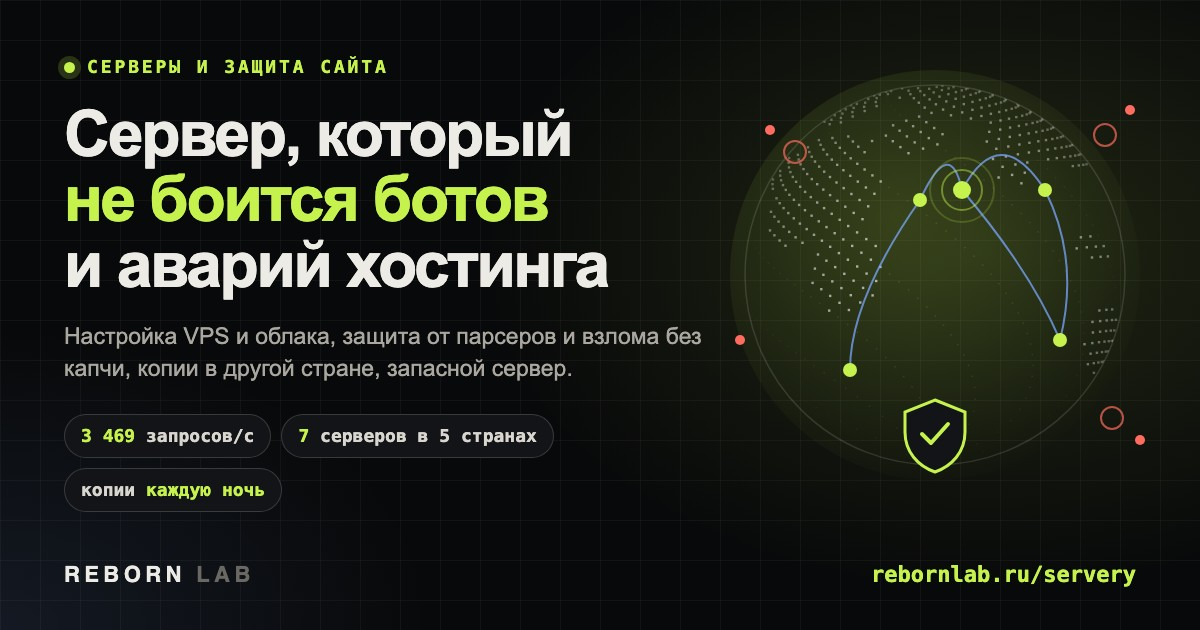
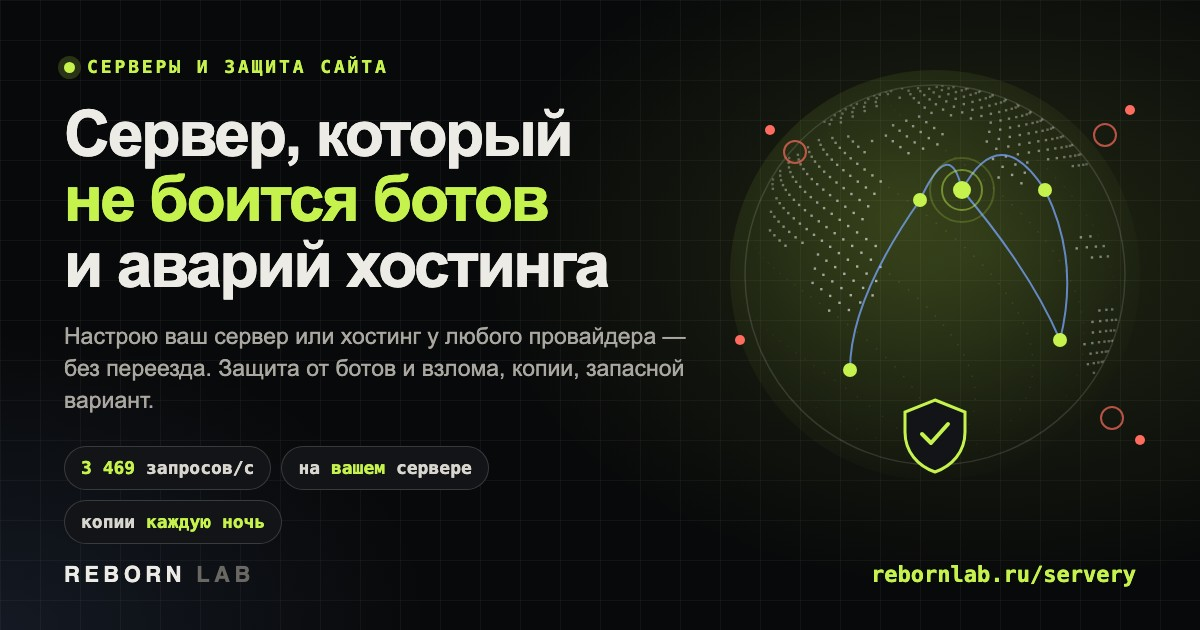
/servery/ и главная: настраиваю сервер клиента у его провайдера, без переезда ко мне; «спокойно спите»

Changed region(s): [[0.0308, 0.5127, 0.5858, 0.8444], [0.2467, 0.6635, 0.4625, 0.754]]

diff --git a/servery/index.html b/servery/index.html
@@ -21,7 +21,7 @@
 <link rel="stylesheet" href="/assets/styles.css?v=9996d339">
 <script type="application/ld+json">{"@context": "https://schema.org", "@type": "BreadcrumbList", "itemListElement": [{"@type": "ListItem", "position": 1, "name": "Главная", "item": "https://rebornlab.ru/"}, {"@type": "ListItem", "position": 2, "name": "Услуги", "item": "https://rebornlab.ru/#uslugi"}, {"@type": "ListItem", "position": 3, "name": "Серверы и защита", "item": "https://rebornlab.ru/servery/"}]}</script>
 <script type="application/ld+json">{"@context": "https://schema.org", "@type": "Service", "name": "Настройка серверов, защита сайта от ботов и взлома, сопровождение", "description": "Настрою VPS или облачный сервер под сайт, закрою от парсеров, сканеров и взлома без капчи, сделаю копии в другой стране и запасной сервер. Мониторинг и сопровождение, сигнал в Telegram. Разбор бесплатно.", "provider": {"@type": "Organization", "name": "REBORN LAB", "url": "https://rebornlab.ru"}, "areaServed": "RU", "serviceType": "Настройка и сопровождение серверов", "url": "https://rebornlab.ru/servery/"}</script>
-<script type="application/ld+json">{"@context": "https://schema.org", "@type": "FAQPage", "mainEntity": [{"@type": "Question", "name": "Вы работаете на моём сервере или переносите сайт к себе?", "acceptedAnswer": {"@type": "Answer", "text": "Как вам удобнее. Могу настроить ваш VPS у любого провайдера: нужен доступ root, лучше по ключу. Могу разместить сайт на своём сервере в России: тогда копии, фильтр ботов и мониторинг уже включены."}}, {"@type": "Question", "name": "Посетителям придётся вводить капчу?", "acceptedAnswer": {"@type": "Answer", "text": "Нет. Фильтр смотрит, кто пришёл: браузер человека, поисковый робот или программа-сборщик. Людям ничего не показываем. Отказ получают сканеры, парсеры, запросы с пустой подписью и те, кто перебирает служебные адреса вроде .env и wp-login."}}, {"@type": "Question", "name": "Не пострадает ли сайт в Яндексе и Google?", "acceptedAnswer": {"@type": "Answer", "text": "Нет. Поисковые роботы, Яндекс Метрика, веб-архив и превью ссылок в Telegram и ВКонтакте проходят. Отсекаются только боты, от которых сайту нет пользы."}}, {"@type": "Question", "name": "Что будет, если сервер упадёт ночью?", "acceptedAnswer": {"@type": "Answer", "text": "Мониторинг заметит это за несколько минут и пришлёт сигнал. Если сервер не поднимается, сайт можно включить на запасном сервере в другой стране из ночной копии и перевести на него домен."}}, {"@type": "Question", "name": "У меня копии делает хостинг. Этого мало?", "acceptedAnswer": {"@type": "Answer", "text": "Если хостинг ляжет целиком, его копии будут недоступны вместе с сайтом. В ноябре так и вышло у тысяч сайтов. Копия должна лежать у другого провайдера, а лучше в двух местах, и её нужно иногда пробовать восстановить."}}, {"@type": "Question", "name": "Сайт уже взломали. Поможете?", "acceptedAnswer": {"@type": "Answer", "text": "Да. Сначала снимаю копию как есть, потом ищу, как зашли и что оставили, вычищаю и закрываю вход. Удалить заражённые файлы мало: если чёрный ход остался, всё повторится."}}, {"@type": "Question", "name": "Сколько стоит?", "acceptedAnswer": {"@type": "Answer", "text": "Разбор бесплатный. Цену называю письменно после него: она зависит от числа сайтов, CMS и того, нужно ли сопровождение. Без сюрпризов в процессе."}}]}</script>
+<script type="application/ld+json">{"@context": "https://schema.org", "@type": "FAQPage", "mainEntity": [{"@type": "Question", "name": "Сайт нужно куда-то переносить?", "acceptedAnswer": {"@type": "Answer", "text": "Нет. Я настраиваю сервер или хостинг, который у вас уже есть, у любого провайдера: VPS, облако или обычный хостинг с панелью. Нужен доступ к серверу (лучше по ключу) или к панели хостинга. Сайт остаётся вашим и там же, где был."}}, {"@type": "Question", "name": "Посетителям придётся вводить капчу?", "acceptedAnswer": {"@type": "Answer", "text": "Нет. Фильтр смотрит, кто пришёл: браузер человека, поисковый робот или программа-сборщик. Людям ничего не показываем. Отказ получают сканеры, парсеры, запросы с пустой подписью и те, кто перебирает служебные адреса вроде .env и wp-login."}}, {"@type": "Question", "name": "Не пострадает ли сайт в Яндексе и Google?", "acceptedAnswer": {"@type": "Answer", "text": "Нет. Поисковые роботы, Яндекс Метрика, веб-архив и превью ссылок в Telegram и ВКонтакте проходят. Отсекаются только боты, от которых сайту нет пользы."}}, {"@type": "Question", "name": "Что будет, если сервер упадёт ночью?", "acceptedAnswer": {"@type": "Answer", "text": "Мониторинг заметит это за несколько минут и пришлёт сигнал. Если сервер не поднимается, сайт можно включить на запасном сервере у другого провайдера (он тоже ваш) из ночной копии и перевести на него домен."}}, {"@type": "Question", "name": "У меня копии делает хостинг. Этого мало?", "acceptedAnswer": {"@type": "Answer", "text": "Если хостинг ляжет целиком, его копии будут недоступны вместе с сайтом. В ноябре так и вышло у тысяч сайтов. Копия должна лежать у другого провайдера, а лучше в двух местах, и её нужно иногда пробовать восстановить."}}, {"@type": "Question", "name": "Сайт уже взломали. Поможете?", "acceptedAnswer": {"@type": "Answer", "text": "Да. Сначала снимаю копию как есть, потом ищу, как зашли и что оставили, вычищаю и закрываю вход. Удалить заражённые файлы мало: если чёрный ход остался, всё повторится."}}, {"@type": "Question", "name": "Сколько стоит?", "acceptedAnswer": {"@type": "Answer", "text": "Разбор бесплатный. Цену называю письменно после него: она зависит от числа сайтов, CMS и того, нужно ли сопровождение. Без сюрпризов в процессе."}}]}</script>
 <script>window.RL_METRIKA=113418511;window.RL_LOAD_METRIKA=function(){if(window.RL_YM_ON)return;window.RL_YM_ON=1;(function(m,e,t,r,i,k,a){m[i]=m[i]||function(){(m[i].a=m[i].a||[]).push(arguments)};m[i].l=1*new Date();k=e.createElement(t),a=e.getElementsByTagName(t)[0],k.async=1,k.src=r,a.parentNode.insertBefore(k,a)})(window,document,'script','https://mc.yandex.ru/metrika/tag.js?id=113418511','ym');ym(113418511,'init',{ssr:true,webvisor:true,clickmap:true,ecommerce:'dataLayer',referrer:document.referrer,url:location.href,accurateTrackBounce:true,trackLinks:true})};</script>
 </head>
 <body>
@@ -153,14 +153,14 @@ html[data-theme="light"] .srv-card,html[data-theme="light"] .srv-case,html[data-
   <div class="crumbs"><a href="/">Главная</a> / <a href="/#uslugi">Услуги</a> / Серверы и защита</div>
   <div class="kicker" style="margin-top:18px">Серверы · безопасность · сопровождение</div>
   <h1>Настройка серверов и <em>защита сайта</em> от ботов и взлома</h1>
-  <p class="sub">Поднимаю VPS и облачные серверы под ваш сайт, закрываю его от парсеров, сканеров и подбора паролей, настраиваю копии и запасной сервер. Потом слежу, чтобы всё работало: если что-то упадёт ночью, я узнаю об этом раньше вас.</p>
-  <div class="srv-badges"><span><i></i>7 серверов в 5 странах</span><span><i></i>проверка каждые 5 минут</span><span><i></i>копии каждую ночь</span></div>
+  <p class="sub">Настраиваю ваш VPS, облачный сервер или хостинг там, где он уже стоит, у любого провайдера. Закрываю сайт от парсеров, сканеров и подбора паролей, настраиваю копии и запасной вариант на случай аварии. Потом слежу за всем сам, а вы спокойно спите: если что-то упадёт ночью, я узнаю об этом раньше вас.</p>
+  <div class="srv-badges"><span><i></i>на вашем сервере, без переезда</span><span><i></i>проверка каждые 5 минут</span><span><i></i>копии каждую ночь</span></div>
   <p style="display:flex;gap:12px;flex-wrap:wrap;margin:0"><a class="btn btn-acc" href="#task" data-goal="cta_service">Разобрать мой сервер <span class="arrow">→</span></a><a class="btn btn-ghost" href="#shield">Как работает защита</a></p>
  </div>
  <div class="srv-globe" aria-hidden="true">
   <canvas id="srvGlobe"></canvas>
   <div class="srv-feed" id="srvFeed"><b>Что прямо сейчас приходит на сайт</b></div>
-  <div class="gl-cap">наглядная схема: серверы, которые мы держим, и запросы к сайтам</div>
+  <div class="gl-cap">наглядная схема: серверы и запросы к сайтам</div>
  </div>
 </div>
 <div class="wrap"><div class="srv-stats rv">
@@ -203,13 +203,13 @@ html[data-theme="light"] .srv-card,html[data-theme="light"] .srv-case,html[data-
 </div></section>
 
 <section class="sec" style="padding-top:0"><div class="wrap">
- <div class="sec-hd rv"><div><div class="kicker">Что делаю</div><h2>Сервер от настройки <em>до сопровождения</em></h2></div><p>Можно заказать один пункт, можно всё сразу. Работаю на вашем сервере у любого провайдера или размещаю сайт у себя на сервере в России.</p></div>
+ <div class="sec-hd rv"><div><div class="kicker">Что делаю</div><h2>Сервер от настройки <em>до сопровождения</em></h2></div><p>Можно заказать один пункт, можно всё сразу. Работаю там, где уже стоит ваш сайт: VPS, облако или обычный хостинг у любого провайдера. Переносить никуда не нужно.</p></div>
  <div class="srv-grid">
   <div class="srv-card rv"><div class="n">01</div><h3>Настройка VPS и облачного сервера</h3><p>Сервер с нуля под ваш сайт: WordPress, Битрикс, MODX, OpenCart, статика или своё приложение.</p><ul><li>nginx, PHP нужной версии, база данных</li><li>сертификаты https с автопродлением</li><li>старый сайт на старом PHP — тоже запустим</li></ul></div>
   <div class="srv-card rv"><div class="n">02</div><h3>Защита от парсеров и ненужных ботов</h3><p>Отсекаю сканеры, сборщики цен и контента, SEO-пауков, которые только грузят сервер.</p><ul><li>Яндекс, Google, Метрика, превью в мессенджерах проходят</li><li>капчи для людей нет</li><li>автобан за перебор адресов и флуд</li></ul></div>
   <div class="srv-card rv"><div class="n">03</div><h3>Защита от взлома</h3><p>Закрываю то, через что обычно заходят: пароли, старые плагины, открытые служебные файлы.</p><ul><li>вход на сервер только по ключу</li><li>.env, .git, бэкапы и phpinfo снаружи не видны</li><li>в WordPress нельзя поставить «файловый менеджер»</li></ul></div>
   <div class="srv-card rv"><div class="n">04</div><h3>Изоляция сайтов друг от друга</h3><p>Если на сервере несколько сайтов, взлом одного не должен открыть остальные.</p><ul><li>у каждого сайта свой пользователь и PHP</li><li>сайт не видит чужие папки и настройки</li><li>службы заявок пишут только в свою папку</li></ul></div>
-  <div class="srv-card rv"><div class="n">05</div><h3>Копии и запасной сервер</h3><p>Копия, которая лежит у того же хостинга, в аварию не поможет. Поэтому храню её в другом месте.</p><ul><li>каждую ночь, в зашифрованном виде</li><li>грузится, только если сайт изменился</li><li>запасной сервер в другой стране, переключение за минуты</li></ul></div>
+  <div class="srv-card rv"><div class="n">05</div><h3>Копии и запасной сервер</h3><p>Копия, которая лежит у того же хостинга, в аварию не поможет. Поэтому храню её в другом месте.</p><ul><li>каждую ночь, в зашифрованном виде</li><li>грузится, только если сайт изменился</li><li>запасной сервер у другого провайдера (тоже ваш), переключение за минуты</li></ul></div>
   <div class="srv-card rv"><div class="n">06</div><h3>Мониторинг и уведомления</h3><p>Сайт, сервер, место на диске, сертификат — всё под присмотром, сигнал приходит в Telegram.</p><ul><li>сайт не ответил — проверка каждые 10 минут</li><li>диск заполнен на 80% — предупреждение</li><li>бесплатно для любого сайта — <a href="https://t.me/rebornlab_bot" target="_blank" rel="noopener">бот</a></li></ul></div>
   <div class="srv-card rv"><div class="n">07</div><h3>Почта сайта не в спаме</h3><p>Письма с форм уходят от вашего домена и доходят до ящика, а не в папку «Спам».</p><ul><li>DKIM, SPF и PTR для вашего домена</li><li>отправитель — site@ваш-домен</li><li>проверка по журналу почтового сервера</li></ul></div>
   <div class="srv-card rv"><div class="n">08</div><h3>Доступность из России</h3><p>Сайт должен открываться на любом провайдере и на мобильном интернете, без обходных приложений.</p><ul><li>DNS без «оранжевого облака» Cloudflare</li><li>шрифты и скрипты — со своего сервера</li><li>проверка с разных точек</li></ul></div>
@@ -240,16 +240,16 @@ html[data-theme="light"] .srv-card,html[data-theme="light"] .srv-case,html[data-
  <div class="srv-cases">
   <div class="srv-case rv"><div class="big">1 г. 9 мес.</div><h3>Троян жил внутри Битрикса</h3><p>Антивирус хостинга трижды удалял файлы, а чёрный ход оставался. Нашли его, закрыли дыры в шаблоне, поставили фильтр ботов и журнал. Разбор по шагам и 10 проверок, которые можно сделать самому, — в статье.</p><a href="/journal/kejs-troyan-v-bitrikse-zashchita-sajta/">Читать кейс →</a></div>
   <div class="srv-case rv"><div class="big">3 469 / с</div><h3>Нагрузочный тест после настройки</h3><p>5 000 запросов к главной по 200 одновременно на сервере 2 ядра и 2 ГБ: ни одной ошибки, 95% ответов быстрее 0,22 с. До настройки сервер упирался в лимит соединений.</p></div>
-  <div class="srv-case rv"><div class="big">10 сайтов</div><h3>Хостинг упал — сайты вернулись</h3><p>В ноябре крупный хостинг лёг на несколько дней. Сайты клиентов подняли на своих серверах из копий и веб-архива: каталоги, научный журнал, Битрикс и MODX. Теперь у каждого есть копия в другой стране.</p><a href="/vosstanovlenie-sajta/">Восстановление сайтов →</a></div>
+  <div class="srv-case rv"><div class="big">10 сайтов</div><h3>Хостинг упал — сайты вернулись</h3><p>В ноябре крупный хостинг лёг на несколько дней. Сайты клиентов подняли из копий и веб-архива: каталоги, научный журнал, Битрикс и MODX. Теперь у каждого есть копия у другого провайдера.</p><a href="/vosstanovlenie-sajta/">Восстановление сайтов →</a></div>
   <div class="srv-case rv"><div class="big">27</div><h3>Хостингов под наблюдением</h3><p>Каждые 30 минут проверяем панели, DNS и сайты клиентов крупных хостингов. Видно, кто лежит прямо сейчас и кто чаще падал за неделю.</p><a href="/hosting/">Мониторинг хостингов →</a></div>
  </div>
 </div></section>
 
 <section class="sec" style="padding-top:0"><div class="wrap">
- <div class="sec-hd rv"><div><div class="kicker">Сопровождение</div><h2>Сервер <em>под присмотром</em> каждый день</h2></div><p>Для тех, кто не хочет думать о сервере. Вы занимаетесь бизнесом, я — тем, чтобы сайт был доступен, обновлён и цел.</p></div>
+ <div class="sec-hd rv"><div><div class="kicker">Сопровождение</div><h2>Сервер под присмотром, <em>вы спокойно спите</em></h2></div><p>Для тех, кто не хочет думать о сервере. Вы занимаетесь бизнесом, я — тем, чтобы сайт был доступен, обновлён и цел.</p></div>
  <div class="srv-care">
   <div class="rv"><h3><i>всегда</i>Каждые 5–10 минут</h3><ul><li>сайт и сервер отвечают</li><li>сертификат не истёк</li><li>места на диске хватает</li><li>сигнал в Telegram, если нет</li></ul></div>
-  <div class="rv"><h3><i>ночью</i>Каждый день</h3><ul><li>зашифрованная копия файлов и базы</li><li>копия в другой стране и в облаке</li><li>обновления безопасности системы</li><li>журнал: кто пытался зайти</li></ul></div>
+  <div class="rv"><h3><i>ночью</i>Каждый день</h3><ul><li>зашифрованная копия файлов и базы</li><li>копия у другого провайдера и в вашем облаке</li><li>обновления безопасности системы</li><li>журнал: кто пытался зайти</li></ul></div>
   <div class="rv"><h3><i>раз в месяц</i>Проверка по-настоящему</h3><ul><li>пробное восстановление из копии</li><li>обновление CMS и плагинов</li><li>чистка от лишних ботов в фильтре</li><li>короткий отчёт: что было и что сделано</li></ul></div>
  </div>
 </div></section>
@@ -262,10 +262,10 @@ html[data-theme="light"] .srv-card,html[data-theme="light"] .srv-case,html[data-
  <div class="kicker rv">Вопросы</div>
  <h2 class="rv" style="font-size:clamp(28px,3.4vw,44px);margin-bottom:20px">Частые <em>вопросы</em></h2>
  <div class="srv-faq">
-  <details class="rv"><summary>Вы работаете на моём сервере или переносите сайт к себе?</summary><p>Как вам удобнее. Могу настроить ваш VPS у любого провайдера: нужен доступ root, лучше по ключу. Могу разместить сайт на своём сервере в России: тогда копии, фильтр ботов и мониторинг уже включены.</p></details>
+  <details class="rv"><summary>Сайт нужно куда-то переносить?</summary><p>Нет. Я настраиваю сервер или хостинг, который у вас уже есть, у любого провайдера: VPS, облако или обычный хостинг с панелью. Нужен доступ к серверу (лучше по ключу) или к панели хостинга. Сайт остаётся вашим и там же, где был.</p></details>
   <details class="rv"><summary>Посетителям придётся вводить капчу?</summary><p>Нет. Фильтр смотрит, кто пришёл: браузер человека, поисковый робот или программа-сборщик. Людям ничего не показываем. Отказ получают сканеры, парсеры, запросы с пустой подписью и те, кто перебирает служебные адреса вроде .env и wp-login.</p></details>
   <details class="rv"><summary>Не пострадает ли сайт в Яндексе и Google?</summary><p>Нет. Поисковые роботы, Яндекс Метрика, веб-архив и превью ссылок в Telegram и ВКонтакте проходят. Отсекаются только боты, от которых сайту нет пользы.</p></details>
-  <details class="rv"><summary>Что будет, если сервер упадёт ночью?</summary><p>Мониторинг заметит это за несколько минут и пришлёт сигнал. Если сервер не поднимается, сайт можно включить на запасном сервере в другой стране из ночной копии и перевести на него домен.</p></details>
+  <details class="rv"><summary>Что будет, если сервер упадёт ночью?</summary><p>Мониторинг заметит это за несколько минут и пришлёт сигнал. Если сервер не поднимается, сайт можно включить на запасном сервере у другого провайдера (он тоже ваш) из ночной копии и перевести на него домен.</p></details>
   <details class="rv"><summary>У меня копии делает хостинг. Этого мало?</summary><p>Если хостинг ляжет целиком, его копии будут недоступны вместе с сайтом. В ноябре так и вышло у тысяч сайтов. Копия должна лежать у другого провайдера, а лучше в двух местах, и её нужно иногда пробовать восстановить.</p></details>
   <details class="rv"><summary>Сайт уже взломали. Поможете?</summary><p>Да. Сначала снимаю копию как есть, потом ищу, как зашли и что оставили, вычищаю и закрываю вход. Удалить заражённые файлы мало: если чёрный ход остался, всё повторится.</p></details>
   <details class="rv"><summary>Сколько стоит?</summary><p>Разбор бесплатный. Цену называю письменно после него: она зависит от числа сайтов, CMS и того, нужно ли сопровождение. Без сюрпризов в процессе.</p></details>
@@ -273,7 +273,7 @@ html[data-theme="light"] .srv-card,html[data-theme="light"] .srv-case,html[data-
 </div></section>
 
 <section class="sec" id="task" style="padding-top:0"><div class="wrap"><div class="final-box rv"><h2 style="font-size:clamp(30px,4vw,52px)">Пришлите адрес — <em>посмотрю сервер</em></h2><form data-lead id="f-servery" novalidate>
- <p class="lf-proof"><b>Что я делаю каждый день:</b> держу сайты клиентов на своих серверах в России и в других странах, закрываю их от ботов и взлома, делаю копии и слежу, чтобы всё открывалось.</p>
+ <p class="lf-proof"><b>Что я делаю каждый день:</b> настраиваю серверы и хостинги клиентов там, где они уже стоят, закрываю сайты от ботов и взлома, настраиваю копии и слежу, чтобы всё открывалось. Чтобы вы могли спокойно спать.</p>
  <div class="chips" data-chips><button type="button" class="chip hot">🛡 Защита от ботов и парсеров</button><button type="button" class="chip hot">⚙ Настроить сервер / VPS</button><button type="button" class="chip">Полная защита сайта</button><button type="button" class="chip">Сопровождение сервера</button><button type="button" class="chip">Копии и запасной сервер</button><button type="button" class="chip">Сайт взломали</button><button type="button" class="chip">Другая задача</button></div>
  <label class="sr" for="f-servery-t">Опишите задачу</label>
  <textarea class="ym-disable-keys" id="f-servery-t" name="text" placeholder="Адрес сайта и что беспокоит. Например: «мой-сайт.ru тормозит, на хостинге пишут про нагрузку» или «купил VPS, нужно перенести WordPress и защитить»"></textarea>

diff --git a/drafts/servery-main.part.html b/drafts/servery-main.part.html
@@ -117,14 +117,14 @@ html[data-theme="light"] .srv-card,html[data-theme="light"] .srv-case,html[data-
   <div class="crumbs"><a href="/">Главная</a> / <a href="/#uslugi">Услуги</a> / Серверы и защита</div>
   <div class="kicker" style="margin-top:18px">Серверы · безопасность · сопровождение</div>
   <h1>Настройка серверов и <em>защита сайта</em> от ботов и взлома</h1>
-  <p class="sub">Поднимаю VPS и облачные серверы под ваш сайт, закрываю его от парсеров, сканеров и подбора паролей, настраиваю копии и запасной сервер. Потом слежу, чтобы всё работало: если что-то упадёт ночью, я узнаю об этом раньше вас.</p>
-  <div class="srv-badges"><span><i></i>7 серверов в 5 странах</span><span><i></i>проверка каждые 5 минут</span><span><i></i>копии каждую ночь</span></div>
+  <p class="sub">Настраиваю ваш VPS, облачный сервер или хостинг там, где он уже стоит, у любого провайдера. Закрываю сайт от парсеров, сканеров и подбора паролей, настраиваю копии и запасной вариант на случай аварии. Потом слежу за всем сам, а вы спокойно спите: если что-то упадёт ночью, я узнаю об этом раньше вас.</p>
+  <div class="srv-badges"><span><i></i>на вашем сервере, без переезда</span><span><i></i>проверка каждые 5 минут</span><span><i></i>копии каждую ночь</span></div>
   <p style="display:flex;gap:12px;flex-wrap:wrap;margin:0"><a class="btn btn-acc" href="#task" data-goal="cta_service">Разобрать мой сервер <span class="arrow">→</span></a><a class="btn btn-ghost" href="#shield">Как работает защита</a></p>
  </div>
  <div class="srv-globe" aria-hidden="true">
   <canvas id="srvGlobe"></canvas>
   <div class="srv-feed" id="srvFeed"><b>Что прямо сейчас приходит на сайт</b></div>
-  <div class="gl-cap">наглядная схема: серверы, которые мы держим, и запросы к сайтам</div>
+  <div class="gl-cap">наглядная схема: серверы и запросы к сайтам</div>
  </div>
 </div>
 <div class="wrap"><div class="srv-stats rv">
@@ -167,13 +167,13 @@ html[data-theme="light"] .srv-card,html[data-theme="light"] .srv-case,html[data-
 </div></section>
 
 <section class="sec" style="padding-top:0"><div class="wrap">
- <div class="sec-hd rv"><div><div class="kicker">Что делаю</div><h2>Сервер от настройки <em>до сопровождения</em></h2></div><p>Можно заказать один пункт, можно всё сразу. Работаю на вашем сервере у любого провайдера или размещаю сайт у себя на сервере в России.</p></div>
+ <div class="sec-hd rv"><div><div class="kicker">Что делаю</div><h2>Сервер от настройки <em>до сопровождения</em></h2></div><p>Можно заказать один пункт, можно всё сразу. Работаю там, где уже стоит ваш сайт: VPS, облако или обычный хостинг у любого провайдера. Переносить никуда не нужно.</p></div>
  <div class="srv-grid">
   <div class="srv-card rv"><div class="n">01</div><h3>Настройка VPS и облачного сервера</h3><p>Сервер с нуля под ваш сайт: WordPress, Битрикс, MODX, OpenCart, статика или своё приложение.</p><ul><li>nginx, PHP нужной версии, база данных</li><li>сертификаты https с автопродлением</li><li>старый сайт на старом PHP — тоже запустим</li></ul></div>
   <div class="srv-card rv"><div class="n">02</div><h3>Защита от парсеров и ненужных ботов</h3><p>Отсекаю сканеры, сборщики цен и контента, SEO-пауков, которые только грузят сервер.</p><ul><li>Яндекс, Google, Метрика, превью в мессенджерах проходят</li><li>капчи для людей нет</li><li>автобан за перебор адресов и флуд</li></ul></div>
   <div class="srv-card rv"><div class="n">03</div><h3>Защита от взлома</h3><p>Закрываю то, через что обычно заходят: пароли, старые плагины, открытые служебные файлы.</p><ul><li>вход на сервер только по ключу</li><li>.env, .git, бэкапы и phpinfo снаружи не видны</li><li>в WordPress нельзя поставить «файловый менеджер»</li></ul></div>
   <div class="srv-card rv"><div class="n">04</div><h3>Изоляция сайтов друг от друга</h3><p>Если на сервере несколько сайтов, взлом одного не должен открыть остальные.</p><ul><li>у каждого сайта свой пользователь и PHP</li><li>сайт не видит чужие папки и настройки</li><li>службы заявок пишут только в свою папку</li></ul></div>
-  <div class="srv-card rv"><div class="n">05</div><h3>Копии и запасной сервер</h3><p>Копия, которая лежит у того же хостинга, в аварию не поможет. Поэтому храню её в другом месте.</p><ul><li>каждую ночь, в зашифрованном виде</li><li>грузится, только если сайт изменился</li><li>запасной сервер в другой стране, переключение за минуты</li></ul></div>
+  <div class="srv-card rv"><div class="n">05</div><h3>Копии и запасной сервер</h3><p>Копия, которая лежит у того же хостинга, в аварию не поможет. Поэтому храню её в другом месте.</p><ul><li>каждую ночь, в зашифрованном виде</li><li>грузится, только если сайт изменился</li><li>запасной сервер у другого провайдера (тоже ваш), переключение за минуты</li></ul></div>
   <div class="srv-card rv"><div class="n">06</div><h3>Мониторинг и уведомления</h3><p>Сайт, сервер, место на диске, сертификат — всё под присмотром, сигнал приходит в Telegram.</p><ul><li>сайт не ответил — проверка каждые 10 минут</li><li>диск заполнен на 80% — предупреждение</li><li>бесплатно для любого сайта — <a href="https://t.me/rebornlab_bot" target="_blank" rel="noopener">бот</a></li></ul></div>
   <div class="srv-card rv"><div class="n">07</div><h3>Почта сайта не в спаме</h3><p>Письма с форм уходят от вашего домена и доходят до ящика, а не в папку «Спам».</p><ul><li>DKIM, SPF и PTR для вашего домена</li><li>отправитель — site@ваш-домен</li><li>проверка по журналу почтового сервера</li></ul></div>
   <div class="srv-card rv"><div class="n">08</div><h3>Доступность из России</h3><p>Сайт должен открываться на любом провайдере и на мобильном интернете, без обходных приложений.</p><ul><li>DNS без «оранжевого облака» Cloudflare</li><li>шрифты и скрипты — со своего сервера</li><li>проверка с разных точек</li></ul></div>
@@ -204,16 +204,16 @@ html[data-theme="light"] .srv-card,html[data-theme="light"] .srv-case,html[data-
  <div class="srv-cases">
   <div class="srv-case rv"><div class="big">1 г. 9 мес.</div><h3>Троян жил внутри Битрикса</h3><p>Антивирус хостинга трижды удалял файлы, а чёрный ход оставался. Нашли его, закрыли дыры в шаблоне, поставили фильтр ботов и журнал. Разбор по шагам и 10 проверок, которые можно сделать самому, — в статье.</p><a href="/journal/kejs-troyan-v-bitrikse-zashchita-sajta/">Читать кейс →</a></div>
   <div class="srv-case rv"><div class="big">3 469 / с</div><h3>Нагрузочный тест после настройки</h3><p>5 000 запросов к главной по 200 одновременно на сервере 2 ядра и 2 ГБ: ни одной ошибки, 95% ответов быстрее 0,22 с. До настройки сервер упирался в лимит соединений.</p></div>
-  <div class="srv-case rv"><div class="big">10 сайтов</div><h3>Хостинг упал — сайты вернулись</h3><p>В ноябре крупный хостинг лёг на несколько дней. Сайты клиентов подняли на своих серверах из копий и веб-архива: каталоги, научный журнал, Битрикс и MODX. Теперь у каждого есть копия в другой стране.</p><a href="/vosstanovlenie-sajta/">Восстановление сайтов →</a></div>
+  <div class="srv-case rv"><div class="big">10 сайтов</div><h3>Хостинг упал — сайты вернулись</h3><p>В ноябре крупный хостинг лёг на несколько дней. Сайты клиентов подняли из копий и веб-архива: каталоги, научный журнал, Битрикс и MODX. Теперь у каждого есть копия у другого провайдера.</p><a href="/vosstanovlenie-sajta/">Восстановление сайтов →</a></div>
   <div class="srv-case rv"><div class="big">27</div><h3>Хостингов под наблюдением</h3><p>Каждые 30 минут проверяем панели, DNS и сайты клиентов крупных хостингов. Видно, кто лежит прямо сейчас и кто чаще падал за неделю.</p><a href="/hosting/">Мониторинг хостингов →</a></div>
  </div>
 </div></section>
 
 <section class="sec" style="padding-top:0"><div class="wrap">
- <div class="sec-hd rv"><div><div class="kicker">Сопровождение</div><h2>Сервер <em>под присмотром</em> каждый день</h2></div><p>Для тех, кто не хочет думать о сервере. Вы занимаетесь бизнесом, я — тем, чтобы сайт был доступен, обновлён и цел.</p></div>
+ <div class="sec-hd rv"><div><div class="kicker">Сопровождение</div><h2>Сервер под присмотром, <em>вы спокойно спите</em></h2></div><p>Для тех, кто не хочет думать о сервере. Вы занимаетесь бизнесом, я — тем, чтобы сайт был доступен, обновлён и цел.</p></div>
  <div class="srv-care">
   <div class="rv"><h3><i>всегда</i>Каждые 5–10 минут</h3><ul><li>сайт и сервер отвечают</li><li>сертификат не истёк</li><li>места на диске хватает</li><li>сигнал в Telegram, если нет</li></ul></div>
-  <div class="rv"><h3><i>ночью</i>Каждый день</h3><ul><li>зашифрованная копия файлов и базы</li><li>копия в другой стране и в облаке</li><li>обновления безопасности системы</li><li>журнал: кто пытался зайти</li></ul></div>
+  <div class="rv"><h3><i>ночью</i>Каждый день</h3><ul><li>зашифрованная копия файлов и базы</li><li>копия у другого провайдера и в вашем облаке</li><li>обновления безопасности системы</li><li>журнал: кто пытался зайти</li></ul></div>
   <div class="rv"><h3><i>раз в месяц</i>Проверка по-настоящему</h3><ul><li>пробное восстановление из копии</li><li>обновление CMS и плагинов</li><li>чистка от лишних ботов в фильтре</li><li>короткий отчёт: что было и что сделано</li></ul></div>
  </div>
 </div></section>
@@ -226,10 +226,10 @@ html[data-theme="light"] .srv-card,html[data-theme="light"] .srv-case,html[data-
  <div class="kicker rv">Вопросы</div>
  <h2 class="rv" style="font-size:clamp(28px,3.4vw,44px);margin-bottom:20px">Частые <em>вопросы</em></h2>
  <div class="srv-faq">
-  <details class="rv"><summary>Вы работаете на моём сервере или переносите сайт к себе?</summary><p>Как вам удобнее. Могу настроить ваш VPS у любого провайдера: нужен доступ root, лучше по ключу. Могу разместить сайт на своём сервере в России: тогда копии, фильтр ботов и мониторинг уже включены.</p></details>
+  <details class="rv"><summary>Сайт нужно куда-то переносить?</summary><p>Нет. Я настраиваю сервер или хостинг, который у вас уже есть, у любого провайдера: VPS, облако или обычный хостинг с панелью. Нужен доступ к серверу (лучше по ключу) или к панели хостинга. Сайт остаётся вашим и там же, где был.</p></details>
   <details class="rv"><summary>Посетителям придётся вводить капчу?</summary><p>Нет. Фильтр смотрит, кто пришёл: браузер человека, поисковый робот или программа-сборщик. Людям ничего не показываем. Отказ получают сканеры, парсеры, запросы с пустой подписью и те, кто перебирает служебные адреса вроде .env и wp-login.</p></details>
   <details class="rv"><summary>Не пострадает ли сайт в Яндексе и Google?</summary><p>Нет. Поисковые роботы, Яндекс Метрика, веб-архив и превью ссылок в Telegram и ВКонтакте проходят. Отсекаются только боты, от которых сайту нет пользы.</p></details>
-  <details class="rv"><summary>Что будет, если сервер упадёт ночью?</summary><p>Мониторинг заметит это за несколько минут и пришлёт сигнал. Если сервер не поднимается, сайт можно включить на запасном сервере в другой стране из ночной копии и перевести на него домен.</p></details>
+  <details class="rv"><summary>Что будет, если сервер упадёт ночью?</summary><p>Мониторинг заметит это за несколько минут и пришлёт сигнал. Если сервер не поднимается, сайт можно включить на запасном сервере у другого провайдера (он тоже ваш) из ночной копии и перевести на него домен.</p></details>
   <details class="rv"><summary>У меня копии делает хостинг. Этого мало?</summary><p>Если хостинг ляжет целиком, его копии будут недоступны вместе с сайтом. В ноябре так и вышло у тысяч сайтов. Копия должна лежать у другого провайдера, а лучше в двух местах, и её нужно иногда пробовать восстановить.</p></details>
   <details class="rv"><summary>Сайт уже взломали. Поможете?</summary><p>Да. Сначала снимаю копию как есть, потом ищу, как зашли и что оставили, вычищаю и закрываю вход. Удалить заражённые файлы мало: если чёрный ход остался, всё повторится.</p></details>
   <details class="rv"><summary>Сколько стоит?</summary><p>Разбор бесплатный. Цену называю письменно после него: она зависит от числа сайтов, CMS и того, нужно ли сопровождение. Без сюрпризов в процессе.</p></details>
@@ -237,7 +237,7 @@ html[data-theme="light"] .srv-card,html[data-theme="light"] .srv-case,html[data-
 </div></section>
 
 <section class="sec" id="task" style="padding-top:0"><div class="wrap"><div class="final-box rv"><h2 style="font-size:clamp(30px,4vw,52px)">Пришлите адрес — <em>посмотрю сервер</em></h2><form data-lead id="f-servery" novalidate>
- <p class="lf-proof"><b>Что я делаю каждый день:</b> держу сайты клиентов на своих серверах в России и в других странах, закрываю их от ботов и взлома, делаю копии и слежу, чтобы всё открывалось.</p>
+ <p class="lf-proof"><b>Что я делаю каждый день:</b> настраиваю серверы и хостинги клиентов там, где они уже стоят, закрываю сайты от ботов и взлома, настраиваю копии и слежу, чтобы всё открывалось. Чтобы вы могли спокойно спать.</p>
  <div class="chips" data-chips><button type="button" class="chip hot">🛡 Защита от ботов и парсеров</button><button type="button" class="chip hot">⚙ Настроить сервер / VPS</button><button type="button" class="chip">Полная защита сайта</button><button type="button" class="chip">Сопровождение сервера</button><button type="button" class="chip">Копии и запасной сервер</button><button type="button" class="chip">Сайт взломали</button><button type="button" class="chip">Другая задача</button></div>
  <label class="sr" for="f-servery-t">Опишите задачу</label>
  <textarea class="ym-disable-keys" id="f-servery-t" name="text" placeholder="Адрес сайта и что беспокоит. Например: «мой-сайт.ru тормозит, на хостинге пишут про нагрузку» или «купил VPS, нужно перенести WordPress и защитить»"></textarea>

diff --git a/index.html b/index.html
@@ -45,7 +45,7 @@
 <section class="hero" aria-labelledby="h1">
   <canvas id="lab" aria-hidden="true"></canvas>
   <div class="wrap">
-    <a class="srv-promo" href="/servery/" data-goal="home_servery"><span class="sp-ic" aria-hidden="true"><i></i><i></i><i></i></span><span class="sp-tx"><span class="sp-k"><b></b>Новое · серверы и защита</span><strong>Сервер, который <em>не боится ботов</em> и аварий хостинга</strong><span class="sp-d">Настрою VPS или облако под ваш сайт, закрою от парсеров, сканеров и подбора паролей без капчи для людей. Копии каждую ночь в другой стране, запасной сервер, сигнал в Telegram, если что-то упало.</span><span class="sp-ch"><span>3 469 запросов/с без ошибок</span><span>7 серверов в 5 странах</span><span>фильтр ботов на всех сайтах клиентов</span></span></span><span class="sp-go"><span class="btn btn-acc">Защитить мой сайт <span class="arrow">→</span></span><span class="sp-l">Посмотреть, как работает щит</span></span></a>   <!-- 24.11 Ник: вместо «Блокировки в банках» -->
+    <a class="srv-promo" href="/servery/" data-goal="home_servery"><span class="sp-ic" aria-hidden="true"><i></i><i></i><i></i></span><span class="sp-tx"><span class="sp-k"><b></b>Новое · серверы и защита</span><strong>Сервер, который <em>не боится ботов</em> и аварий хостинга</strong><span class="sp-d">Настрою ваш сервер или хостинг там, где уже стоит сайт, у любого провайдера. Закрою от парсеров, сканеров и подбора паролей без капчи для людей, копии каждую ночь, запасной вариант на случай аварии, сигнал в Telegram. А вы спокойно спите.</span><span class="sp-ch"><span>3 469 запросов/с без ошибок</span><span>на вашем хостинге или VPS</span><span>фильтр ботов на всех сайтах клиентов</span></span></span><span class="sp-go"><span class="btn btn-acc">Защитить мой сайт <span class="arrow">→</span></span><span class="sp-l">Посмотреть, как работает щит</span></span></a>   <!-- 24.11 Ник: вместо «Блокировки в банках» -->
     <div class="wbx-home"><section class="card wbx" data-watch><div class="wbx-h"><h2>➕ Добавить сайт или сервер на слежение</h2><p class="sub">Любой сайт, IP сервера или подсеть — на любом хостинге в мире. Сразу покажем, что с ним сейчас, а следить будет бесплатный бот @rebornlab_bot и напишет в Telegram, когда упадёт или заработает. Пока сайт не открывается, бот проверяет его каждые 10 минут, работающий — раз в 3 часа, сервер по IP — каждые 5 минут.</p></div><form class="wbx-f" autocomplete="off"><input name="a" type="text" inputmode="url" placeholder="mysite.ru, 45.130.41.12 или 45.130.41.0/24" aria-label="Сайт, IP или подсеть" required><button class="btn btn-acc" type="submit" data-goal="watch_site">Добавить и следить</button></form><div class="wbx-r" hidden></div><details class="wbx-how"><summary>Как узнать IP сервера и как работает слежение?</summary><ul><li><b>Сайт</b> — открываем его как обычный посетитель: открывается ли, нет ли заглушки, ошибки PHP или проблем с сертификатом.</li><li><b>IP сервера</b> — отвечает ли сервер на портах 443 и 80. IP сайта видно в нашей <a href="/monitoring-saitov/">проверке сайта</a> или командой <code>nslookup mysite.ru</code>.</li><li><b>Подсеть</b> (вида <code>45.130.41.0/24</code>) — сколько её первых серверов отвечает: видно, лежит ли вся сеть хостинга.</li><li><b>Постоянное слежение — в Telegram-боте</b>: нажмите «Следить в боте» после проверки — адрес сразу окажется в списке. До 10 сайтов и серверов на человека, бесплатно.</li><li>Хостинги, которые закрывают наши проверки (Timeweb), добавить нельзя — честно об этом скажем.</li></ul></details><div class="wbx-feed"><div class="wbx-ft"><span class="dot"></span>Только что поставили на слежение в боте <span data-wtot></span></div><ul data-wfeed><li class="wbx-e">загружаем…</li></ul></div></section></div>
     <div class="kicker">Digital laboratory · идея → система → продукт</div>
     <h1 id="h1">Скажите, что нужно. <em>Остальное соберём.</em></h1>

diff --git a/drafts/servery-cover.html b/drafts/servery-cover.html
@@ -22,8 +22,8 @@ svg{position:absolute;right:30px;top:40px}
 <div class="l">
  <div class="k"><i></i>Серверы и защита сайта</div>
  <h1>Сервер, который <em>не&nbsp;боится ботов</em> и&nbsp;аварий хостинга</h1>
- <p>Настройка VPS и облака, защита от парсеров и взлома без капчи, копии в другой стране, запасной сервер.</p>
- <div class="ch"><span><b>3 469</b> запросов/с</span><span><b>7</b> серверов в 5 странах</span><span>копии <b>каждую ночь</b></span></div>
+ <p>Настрою ваш сервер или хостинг у любого провайдера — без переезда. Защита от ботов и взлома, копии, запасной вариант.</p>
+ <div class="ch"><span><b>3 469</b> запросов/с</span><span>на <b>вашем</b> сервере</span><span>копии <b>каждую ночь</b></span></div>
 </div>
 <svg width="470" height="470" viewBox="0 0 470 470" aria-hidden="true">
  <defs><radialGradient id="g" cx="40%" cy="35%" r="70%"><stop offset="0" stop-color="#c6f24e" stop-opacity=".16"/><stop offset="1" stop-color="#c6f24e" stop-opacity="0"/></radialGradient>
